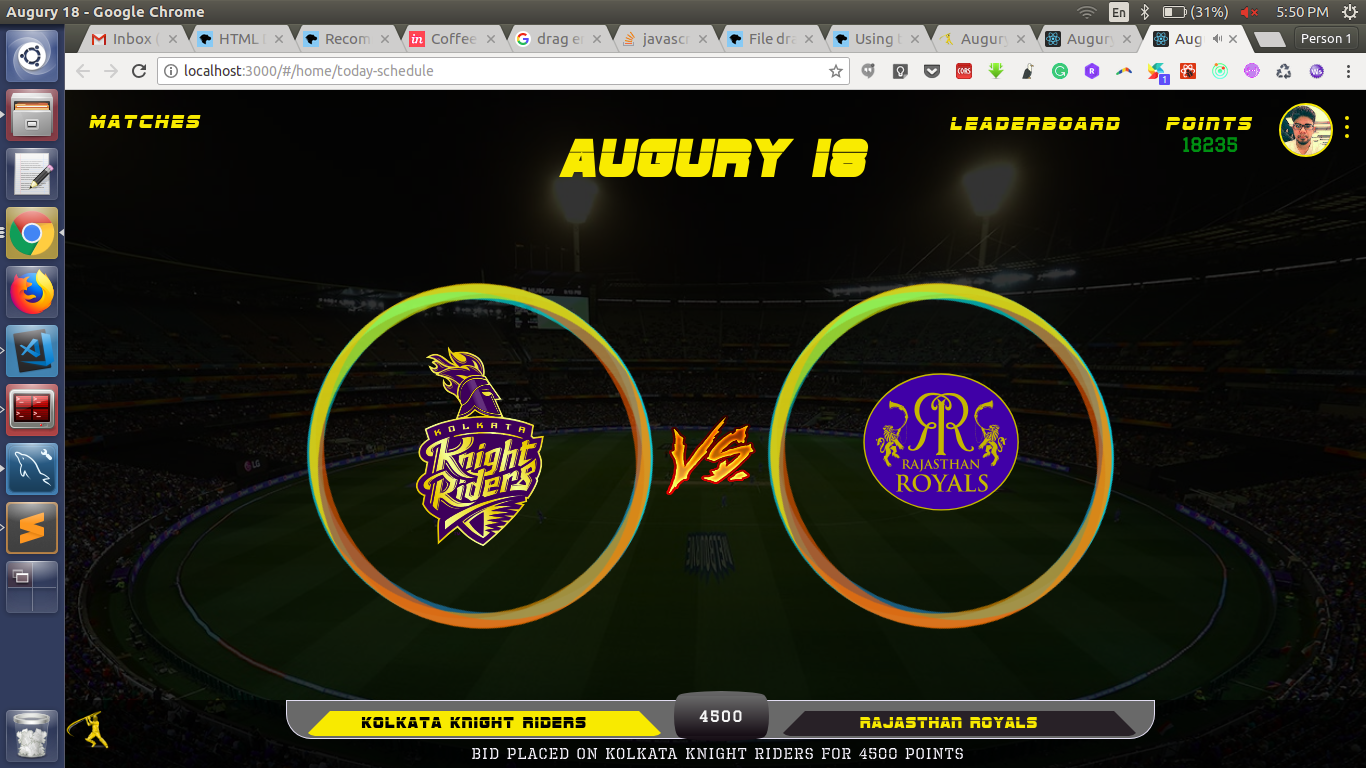
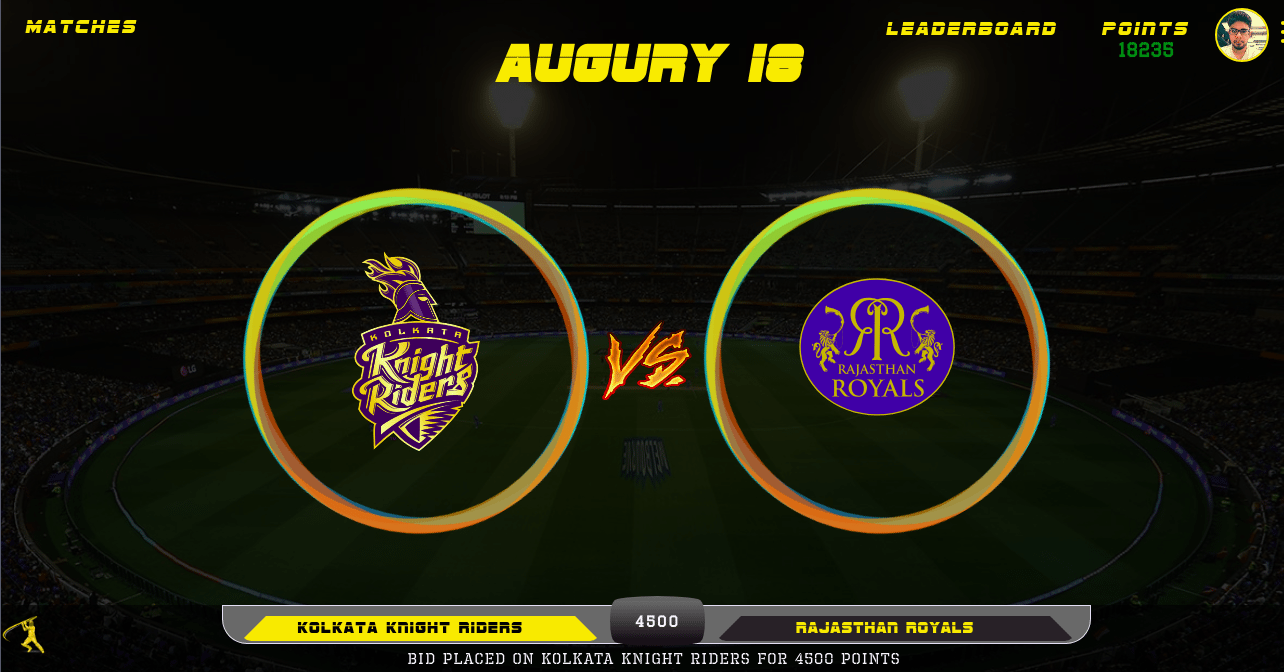
Augury thumbnail and coverphoto included

diff --git a/index.html b/index.html
@@ -306,14 +306,14 @@
                     </div>
                   </div>
                   <div data-category="seo" class="reference-item col-lg-3 col-md-6">
-                    <div class="reference"><a href="#"><img src="img/portfolio-2.jpg" alt="" class="img-fluid">
+                    <div class="reference"><a href="#"><img src="img/projects/Augury/Augury_login.png" alt="" class="img-fluid">
                         <div class="overlay">
                           <div class="inner">
                             <h3 class="h4 reference-title">Augury 18</h3>
                             <p>Take your predictions to the Next level!</p>
                           </div>
                         </div></a>
-                      <div data-images="img/main-slider3.jpg,img/main-slider1.jpg" class="sr-only reference-description">
+                      <div data-images="img/projects/Augury/Augury_home_bid.png" class="sr-only reference-description">
                         <p>Augury is an inhouse fun game product created specifically of Indian Premier League. The product is basically about predicting the winning team to gain points in order to progress in your leaderboard.</p>
                         <p>Augury was built using ReactJS, Redux for front end developement and golang for server side developement. MySQL is used as data storage layer.</p>
                         <p class="buttons text-center"><a href="javascript:void(0);" class="btn btn-outline-primary"><i class="fa fa-globe"></i> Visit website</a>
